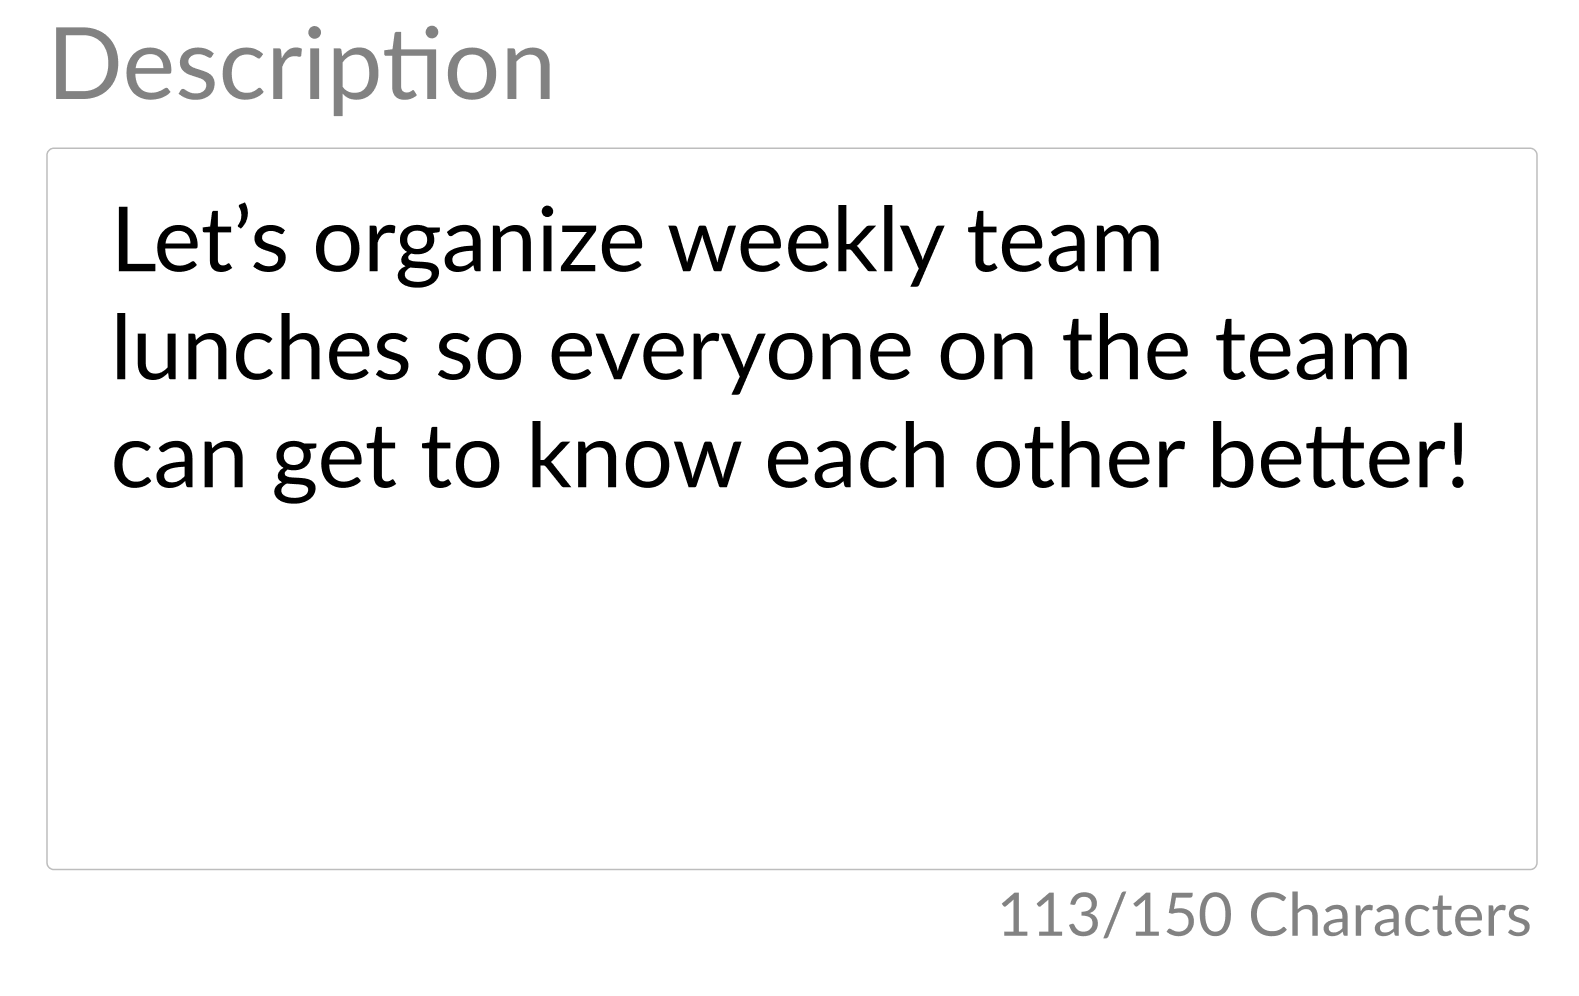
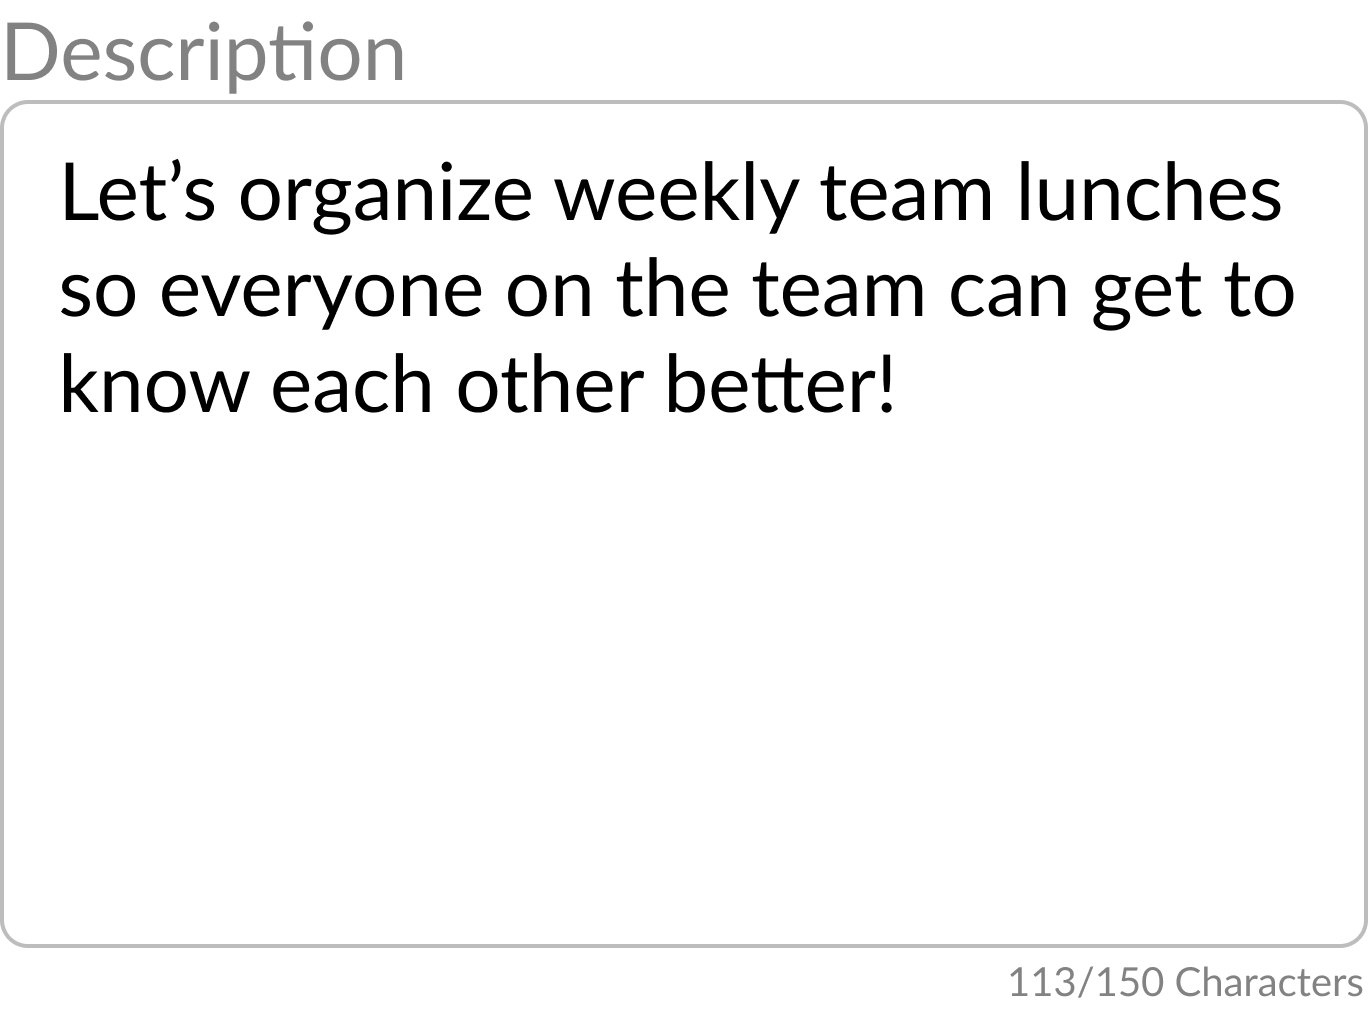
create task formatting

Changed region(s): [[0.0, 0.0, 1.0, 0.9649], [0.0614, 0.4357, 0.9518, 0.498]]

diff --git a/App/Screens/CreateTaskOne.js b/App/Screens/CreateTaskOne.js
@@ -120,6 +120,7 @@ export default class TasksScreen extends React.Component {
           marginLeft: width * 0.053,
         }}>Create Task</Text>
         <TouchableOpacity
+          style={{ justifyContent: 'center', alignItems: 'center' }}
           activeOpacity={1.0}
           onPress={() => this.setShowTitle()}
         >
@@ -130,6 +131,7 @@ export default class TasksScreen extends React.Component {
           />
         </TouchableOpacity>
         <TouchableOpacity
+          style={{ justifyContent: 'center', alignItems: 'center' }}
           activeOpacity={1.0}
           onPress={() => this.setShowDes()}
         >
@@ -148,7 +150,7 @@ export default class TasksScreen extends React.Component {
             width: (196 / 375) * width,
             height: (41 / 817) * height,
             alignSelf: 'center',
-            marginTop: (10 / 817) * height,
+            marginTop: (40 / 817) * height,
             justifyContent: 'center',
             alignItems: 'center'
           }}
@@ -164,9 +166,9 @@ export default class TasksScreen extends React.Component {
         </TouchableOpacity>
         <View style={styles.container}>
           <View style={{
-            width: 12 / 375 * width,
-            height: 12 / 375 * width,
-            borderRadius: (12 / 375 * width) / 2,
+            width: 9 / 375 * width,
+            height: 9 / 375 * width,
+            borderRadius: (9 / 375 * width) / 2,
             marginLeft: 20 / 375 * width,
             marginRight: 10 / 375 * width,
             backgroundColor: accentColor(mood),
@@ -184,26 +186,25 @@ export default class TasksScreen extends React.Component {
 
 const styles = StyleSheet.create({
   container: {
-    flex: 1,
     flexDirection: 'row',
     justifyContent: 'center',
     alignItems: 'center',
-    margin: 10 / 375 * width
+    margin: 30 / 375 * width
   },
   CircleShapeView: {
-    width: 12 / 375 * width,
-    height: 12 / 375 * width,
-    borderRadius: (12 / 375 * width) / 2,
+    width: 9 / 375 * width,
+    height: 9 / 375 * width,
+    borderRadius: (9 / 375 * width) / 2,
     backgroundColor: '#BDBDBD',
     marginLeft: 20 / 375 * width,
     marginRight: 10 / 375 * width,
   },
   taskTitle: {
-    height: height * 0.25,
-    width: width * 0.95,
+    height: 118 / 817 * height,
+    width: 343 / 375 * width,
     padding: 0,
     margin: 0,
-    marginLeft: 10 / 375 * width,
+    justifyContent: 'center'
   },
   pageIndicator: {
     height: 20 / 817 * height,
@@ -212,10 +213,10 @@ const styles = StyleSheet.create({
     marginTop: 40 / 817 * height,
   },
   taskDes: {
-    height: height * 0.30,
-    width: width * 0.95,
+    height: 258 / 817 * height,
+    width: 342 / 375 * width,
     padding: 0,
     margin: 0,
-    marginLeft: 10 / 375 * width,
+    justifyContent: 'center'
   },
 });

diff --git a/App/Screens/CreateTaskTwo.js b/App/Screens/CreateTaskTwo.js
@@ -175,9 +175,9 @@ export default class TasksScreen extends React.Component {
           <View style={styles.CircleShapeView}>
           </View>
           <View style={{
-            width: 12 / 375 * width,
-            height: 12 / 375 * width,
-            borderRadius: (12 / 375 * width) / 2,
+            width: 9 / 375 * width,
+            height: 9 / 375 * width,
+            borderRadius: (9 / 375 * width) / 2,
             opacity: 0.8,
             marginLeft: 20 / 375 * width,
             marginRight: 10 / 375 * width,
@@ -194,17 +194,15 @@ export default class TasksScreen extends React.Component {
 
 const styles = StyleSheet.create({
   container: {
-    flex: 1,
     flexDirection: 'row',
     justifyContent: 'center',
     alignItems: 'center',
-    margin: 10,
-    marginTop: 30
+    margin: 30 / 375 * width
   },
   CircleShapeView: {
-    width: 12 / 375 * width,
-    height: 12 / 375 * width,
-    borderRadius: (12 / 375 * width) / 2,
+    width: 9 / 375 * width,
+    height: 9 / 375 * width,
+    borderRadius: (9 / 375 * width) / 2,
     backgroundColor: '#BDBDBD',
     marginLeft: 20 / 375 * width,
     marginRight: 10 / 375 * width,

diff --git a/App/Screens/CreateTaskThree.js b/App/Screens/CreateTaskThree.js
@@ -235,9 +235,9 @@ export default class TasksScreen extends React.Component {
           <View style={TasksStyles.CircleShapeView}>
           </View>
           <View style={{
-            width: 12 / 375 * width,
-            height: 12 / 375 * width,
-            borderRadius: (12 / 375 * width) / 2,
+            width: 9 / 375 * width,
+            height: 9 / 375 * width,
+            borderRadius: (9 / 375 * width) / 2,
             marginLeft: 20 / 375 * width,
             marginRight: 10 / 375 * width,
             opacity: 0.8,
@@ -252,16 +252,15 @@ export default class TasksScreen extends React.Component {
 
 const TasksStyles = StyleSheet.create({
   container: {
-    flex: 1,
     flexDirection: 'row',
     justifyContent: 'center',
     alignItems: 'center',
     margin: 30 / 375 * width
   },
   CircleShapeView: {
-    width: 12 / 375 * width,
-    height: 12 / 375 * width,
-    borderRadius: (12 / 375 * width) / 2,
+    width: 9 / 375 * width,
+    height: 9 / 375 * width,
+    borderRadius: (9 / 375 * width) / 2,
     backgroundColor: '#BDBDBD',
     marginLeft: 20 / 375 * width,
     marginRight: 10 / 375 * width,
